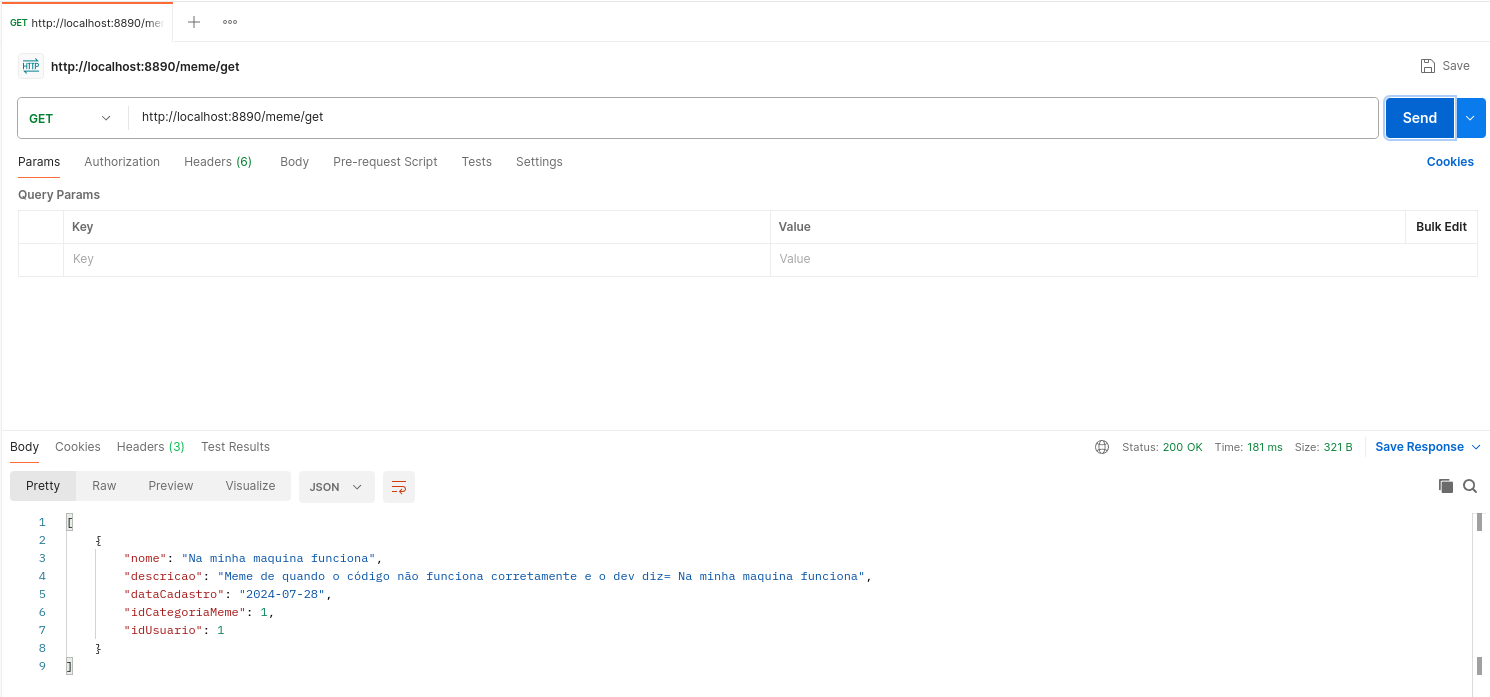
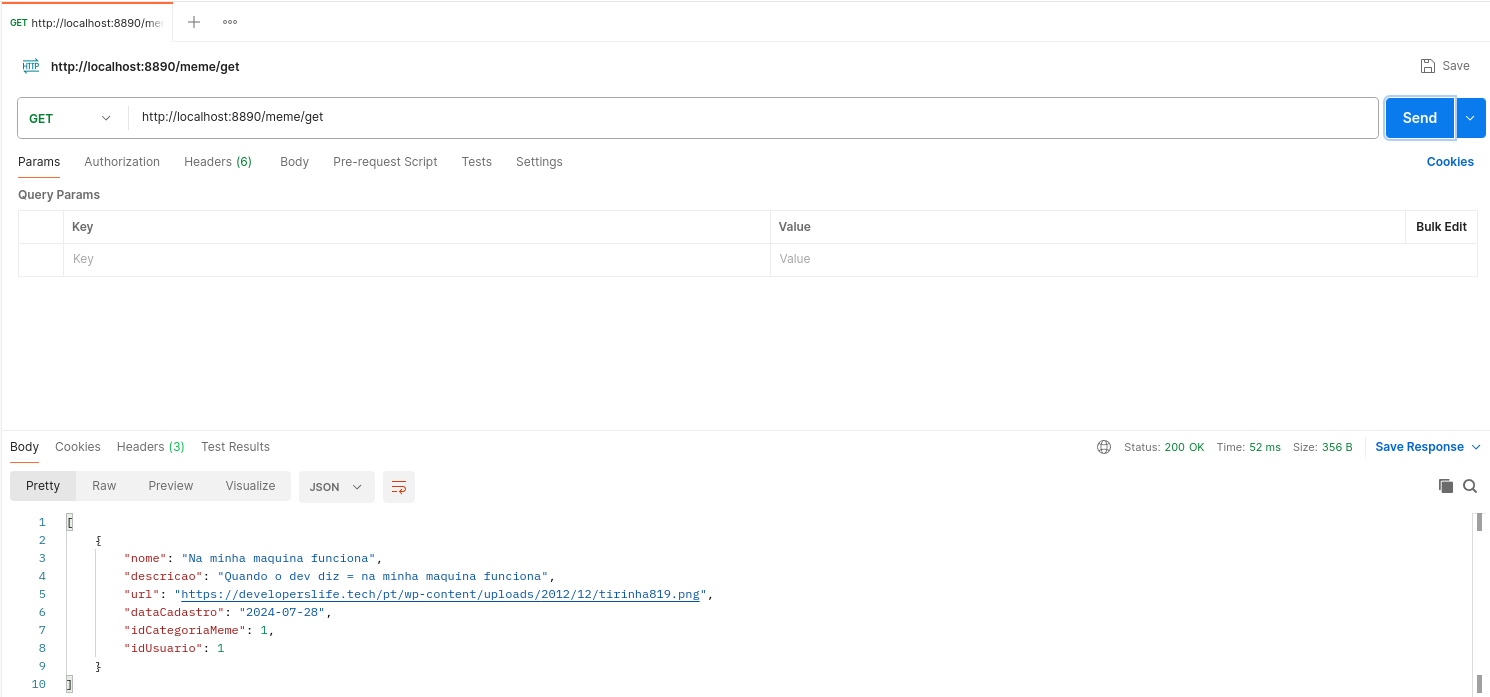
adiciona README com apresentacao do projeto e prints de requisicoes

diff --git a/README.md b/README.md
@@ -1,1 +1,95 @@
-# Desmembramento_de_Monolito_para_Microsservi-os
+<div align="center">
+
+ # Desmembramento de monólito para microsserviços
+
+ ### Diagrama arquitetural do projeto
+
+ ![Diagrama arquitetural](img/ArquiteturaDeMicrosserviços.drawio.png)
+
+</div>
+<hr>
+
+## Descrição
+
+O projeto consiste em migrar/desmembrar uma <a href="https://github.com/github-ebac/backend-java-pro/">aplicação monolítica</a> para uma arquitetura de microsserviços. 
+O foco é identificar e definir os domínios, desenhar a nova arquitetura, e implementar monitoramento, logs, métricas e tracing distribuído. 
+Além disso, será implementada a funcionalidade "meme do dia", que consiste em retornar um meme aleatório do banco de dados. 
+O projeto também envolve a separação dos bancos de dados e o desacoplamento das entidades de domínio, mantendo seus relacionamentos. 
+Registro de serviços e centralização de configurações são aspectos opcionais.
+
+## Tecnologias e dependências do projeto
+
+- **Spring Boot:** Base para a criação de microsserviços
+- **Spring Cloud:** Ferramentas e libs para sistemas distribuídos
+- **Spring Actuator:** Monitoramento e métricas
+- **Spring Web:** Criação de API RESTful
+- **Spring Cloud Config Server:** Centralização das configurações dos microsserviços
+- **Spring Cloud Netflix Eureka Server:** Registro e descoberta de serviços
+- **Spring Devtools:** Ferramentas adicionais para desenvolvimento
+- **Spring Data JPA:** Abstração para acesso a dados
+- **SpringDoc OpenApi WebMvc UI:** Documentação de API e teste de endpoints com Swagger UI
+- **Spring Cloud OpenFeign:** Comunicação síncrona entre microsserviços
+- **Spring Validation:** Validação de dados
+- **Spring Bootstrap:** Inicialização do bootstrap.yml antes do contexto da aplicação
+- **Micrometer Tracing Bridge Brave:** Tracing distribuído
+- **Zipkin Reporter Brave:** Envio de tracings para o Zipkin
+- **Lombok:** Redução de boilerplate de código
+- **H2:** Banco de dados em memória
+
+## Data Transfer Object (DTO)
+
+O padrão dtos é para transferir dados entre partes de um sistema ou sistemas diferentes para reduzir trafego de dados e evitar expor informações sensíveis.
+<hr>
+
+## Testar o projeto
+
+- Com docker e docker-compose instalados navegue até o diretório do projeto, abra seu terminal e digite o seguinte comando
+
+```bash
+docker-compose up -d 
+```
+
+- Inicie os microsserviços, começando pelo Config-Server, depois o Service-Discovery e, em seguida, os demais na ordem desejada. Essa ordem é importante, pois os microsserviços precisam acessar o Config-Server para obter as configurações centralizadas e se registrar no Service-Discovery para descoberta e comunicação.
+
+
+- Os endpoints podem ser testados via Postman ou via OpenAPI (Swagger), que já está configurado como dependência do projeto. Utilize a porta 8890, que é a porta do API Gateway. Caso deseje testar via Postman, seguem abaixo os objetos JSON das entidades:
+
+**Usuario:** Nome + E-mail(Deve ser válido pois possui validação via Spring Validations)
+```json
+{
+  "nome": "Max Dev",
+  "email": "maxdev@gmail.com"
+}
+```
+
+**Categoria:** Nome + Descrição + UsuarioID (ID de um usuario já cadastrado)
+```json
+{
+  "nome": "Programação",
+  "descricao": "Memes de programação",
+  "usuarioId": 1
+}
+```
+
+**Meme:** Nome + Descrição + Url + CategoriaID + UsuarioID (IDs de usuario e categoria já cadastrados)
+```json
+{
+  "nome": "Na minha maquina funciona",
+  "descricao": "Quando o dev diz = na minha maquina funciona",
+  "url": "https://developerslife.tech/pt/wp-content/uploads/2012/12/tirinha819.png",
+  "idCategoriaMeme": 1,
+  "idUsuario": 1
+}
+```
+<hr>
+
+## Prints de testes
+
+- Exemplo de um Post Request no MS-Meme
+![Post Request de um meme](img/MemePost.png)
+
+- Exemplo de um Get Request no MS-Meme
+![Get Request de um meme](img/MemeGet.png)
+
+- Exemplo de um Get Request para o meme do dia no MS-Meme
+![Get Request do meme do dia](img/MemeGetMemeDoDia.png)
